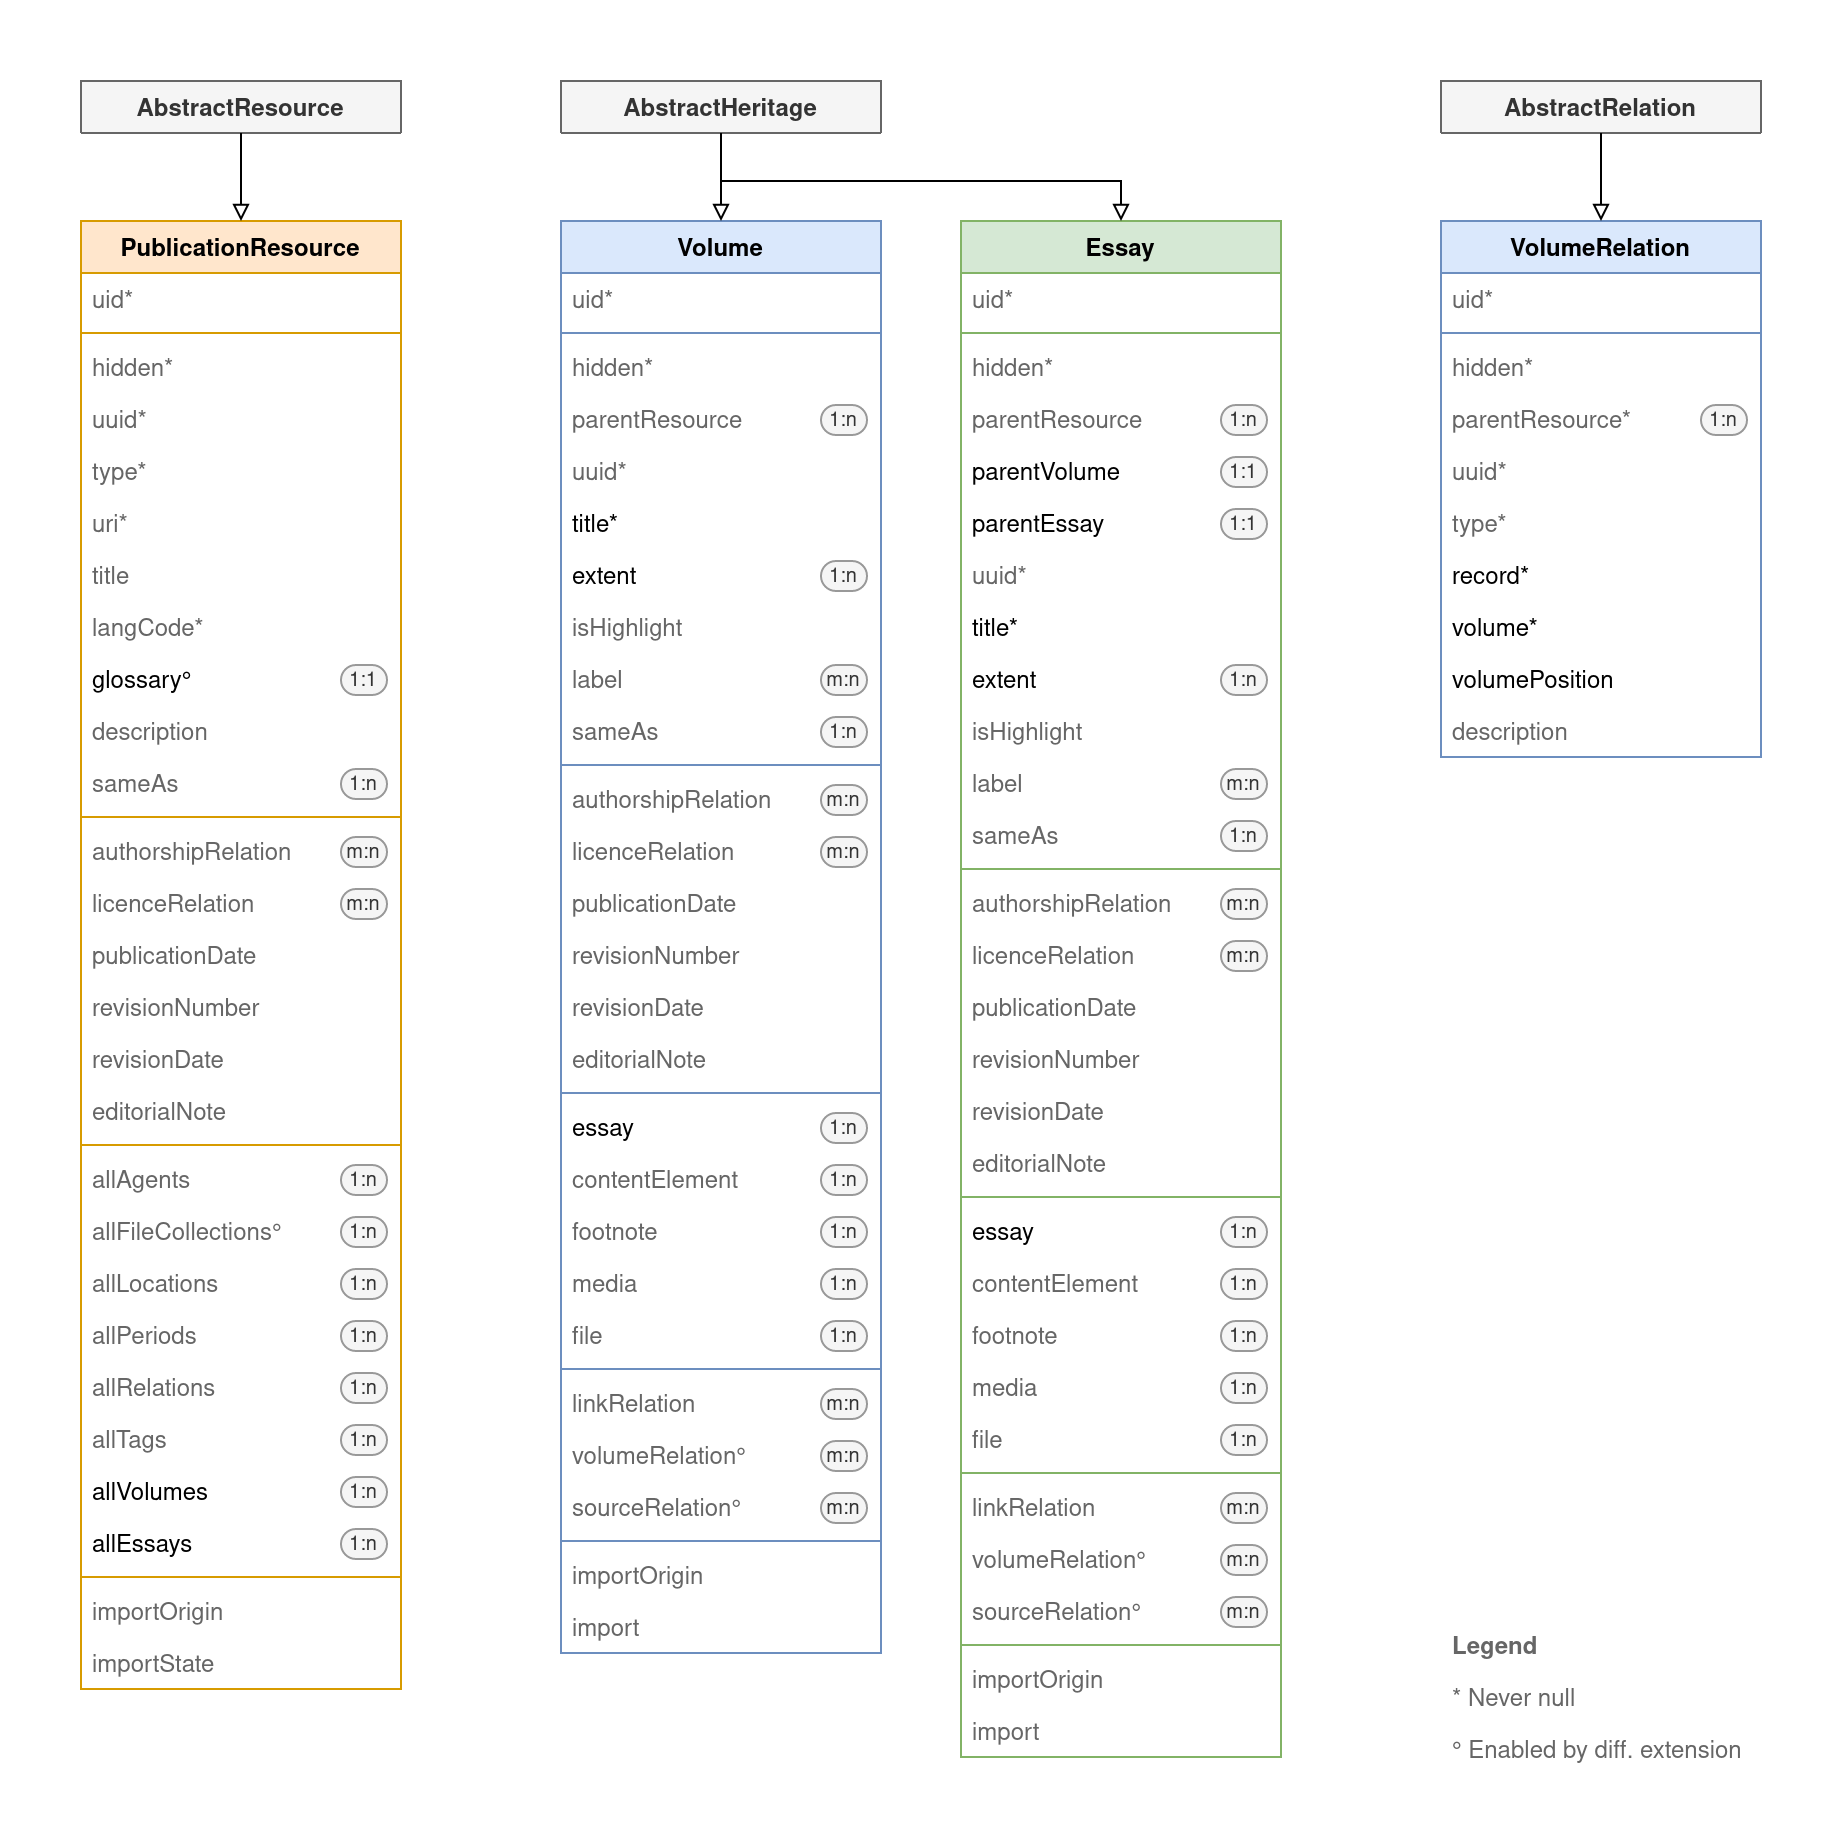
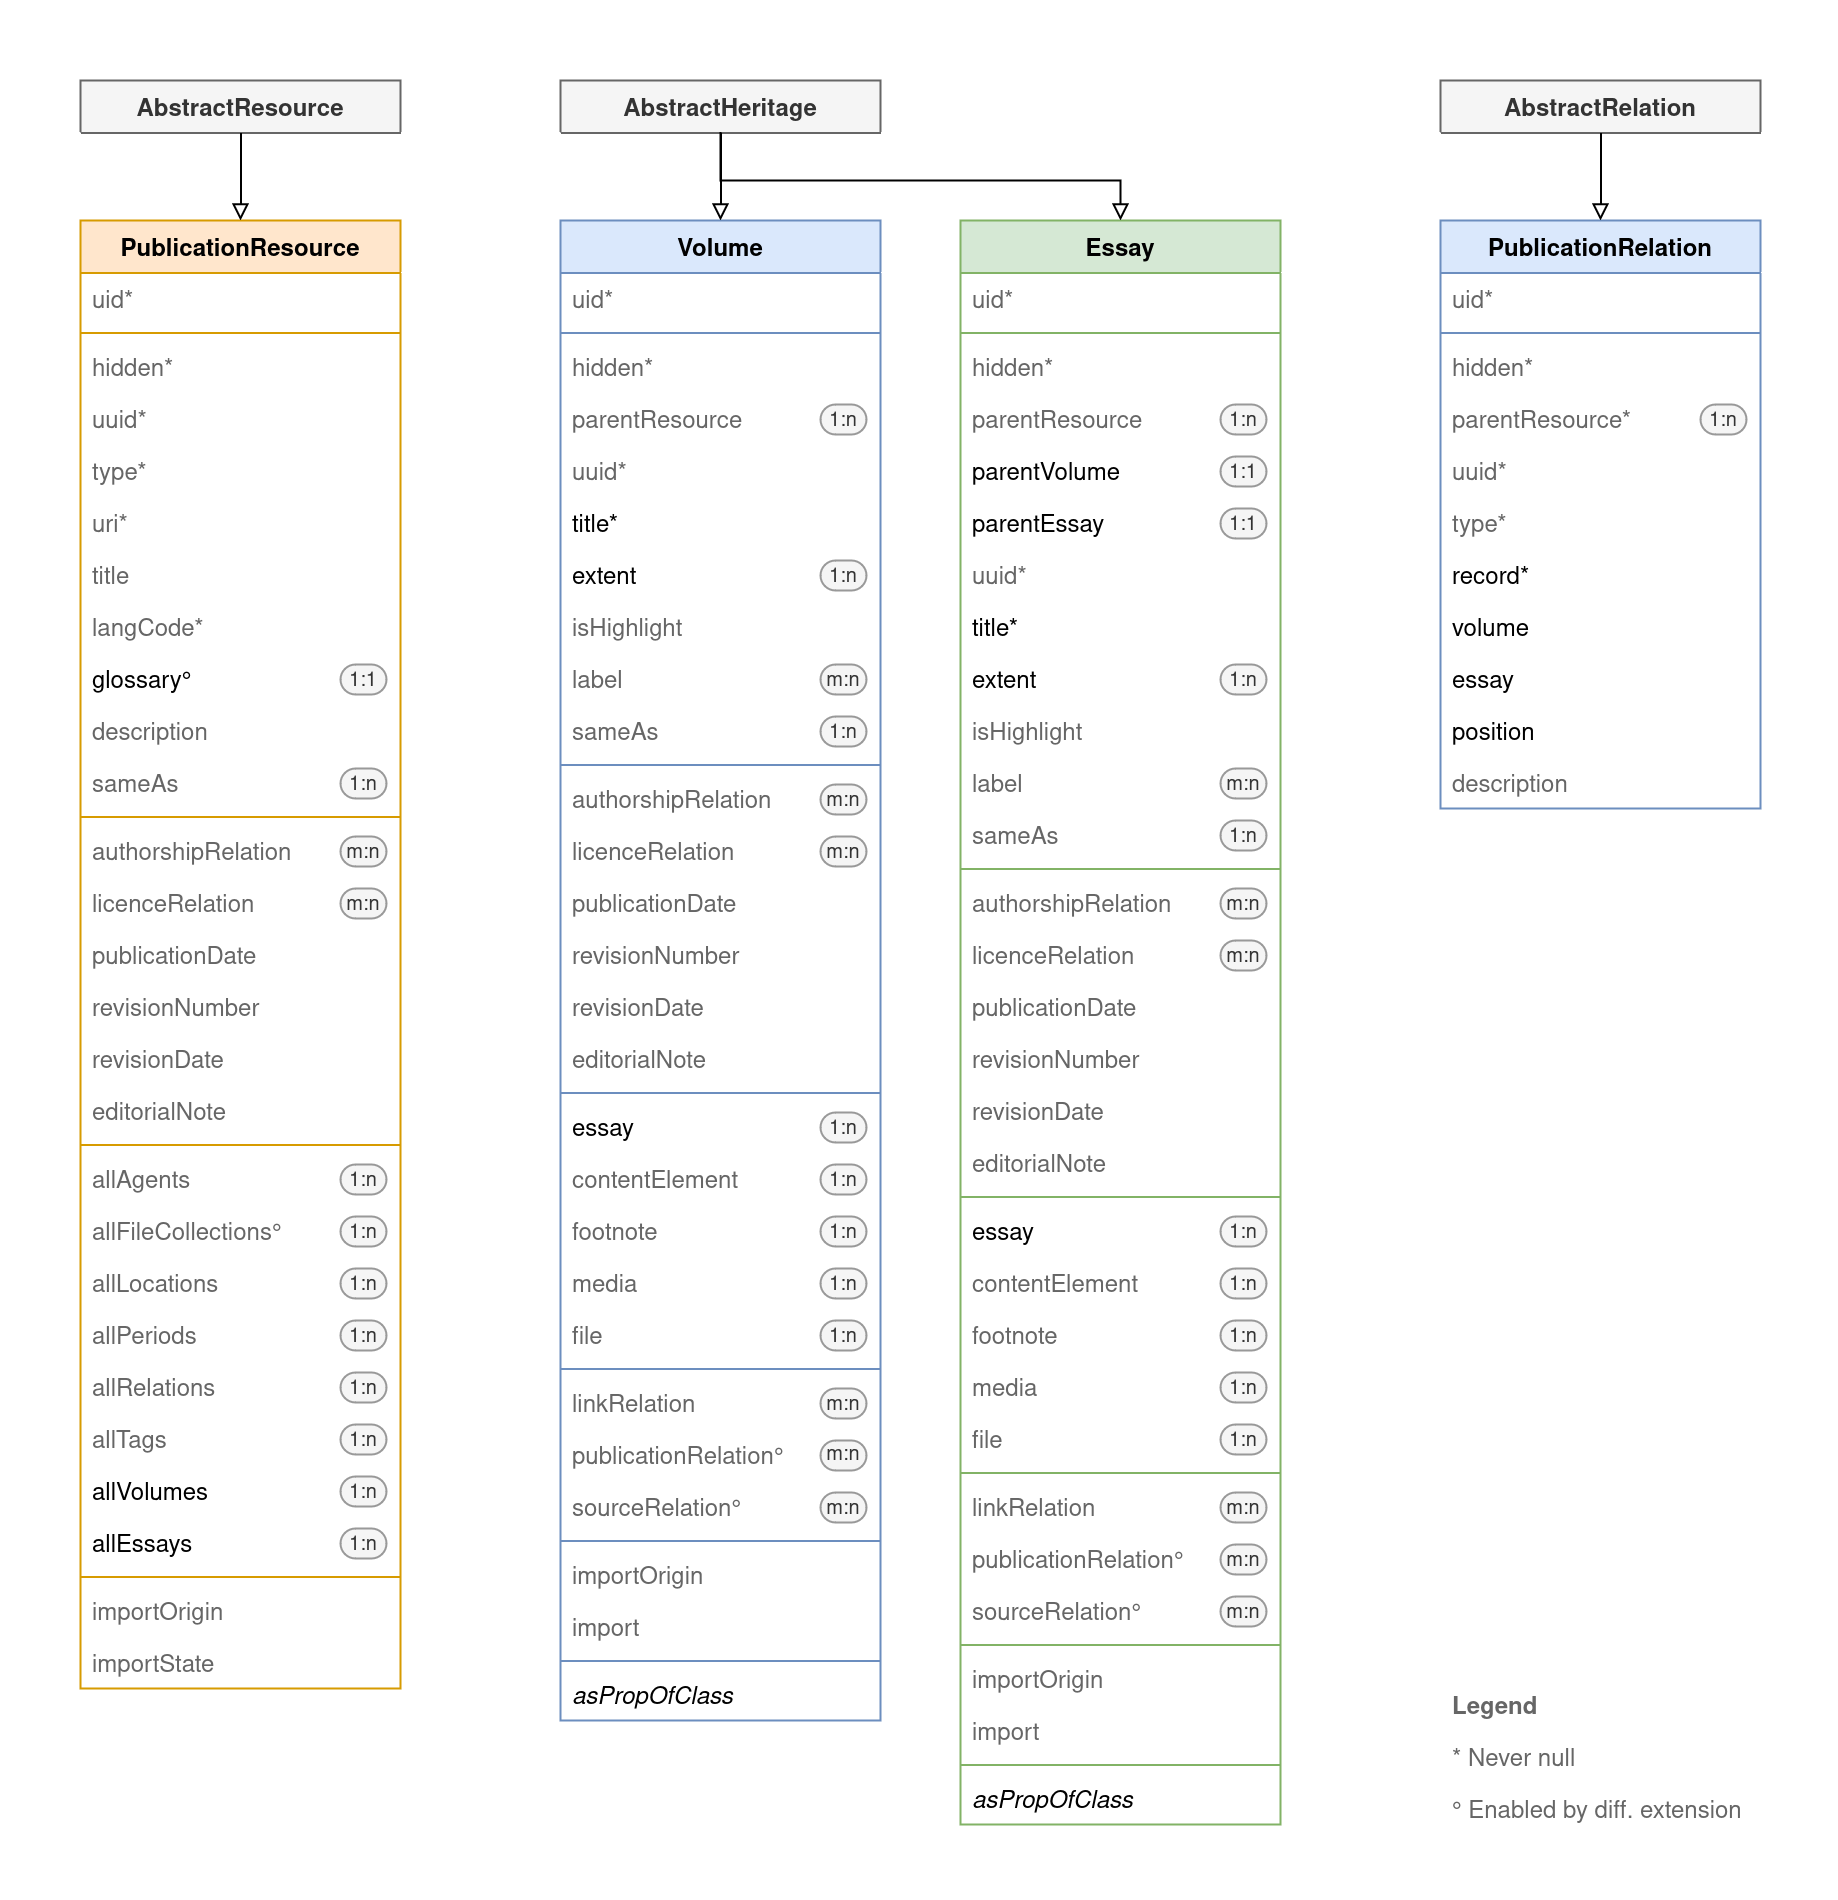
Change VolumeRelation to PublicationRelation

diff --git a/Configuration/TCA/Overrides/tx_chfbase_domain_model_relation.php b/Configuration/TCA/Overrides/tx_chfbase_domain_model_relation.php
@@ -10,7 +10,7 @@ declare(strict_types=1);
 defined('TYPO3') or die();
 
 /**
- * VolumeRelation and its properties
+ * PublicationRelation and its properties
  * 
  * Extension of a database table and its editing interface in the
  * TYPO3 backend. This also serves as the basis for the Extbase
@@ -24,30 +24,30 @@ defined('TYPO3') or die();
     'LLL:EXT:chf_base/Resources/Private/Language/locallang.xlf:object.generic.chfPub'
 );
 
-// Add select item 'volumeRelation'
+// Add select item 'publicationRelation'
 \TYPO3\CMS\Core\Utility\ExtensionManagementUtility::addTcaSelectItem('tx_chfbase_domain_model_relation', 'type',
     [
-        'label' => 'LLL:EXT:chf_pub/Resources/Private/Language/locallang.xlf:object.volumeRelation.type.volumeRelation',
-        'value' => 'volumeRelation',
+        'label' => 'LLL:EXT:chf_pub/Resources/Private/Language/locallang.xlf:object.publicationRelation.type.publicationRelation',
+        'value' => 'publicationRelation',
         'group' => 'chfPub',
     ]
 );
 
-// Add columns 'volume' and 'volumePosition'
+// Add columns 'volume', 'essay', and 'volumePosition'
 \TYPO3\CMS\Core\Utility\ExtensionManagementUtility::addTCAcolumns('tx_chfbase_domain_model_relation',
     [
         'volume' => [
             'exclude' => true,
             'l10n_mode' => 'exclude',
-            'label' => 'LLL:EXT:chf_pub/Resources/Private/Language/locallang.xlf:object.volumeRelation.volume',
-            'description' => 'LLL:EXT:chf_pub/Resources/Private/Language/locallang.xlf:object.volumeRelation.volume.description',
+            'label' => 'LLL:EXT:chf_pub/Resources/Private/Language/locallang.xlf:object.publicationRelation.volume',
+            'description' => 'LLL:EXT:chf_pub/Resources/Private/Language/locallang.xlf:object.publicationRelation.volume.description',
             'config' => [
                 'type' => 'select',
                 'renderType' => 'selectMultipleSideBySide',
                 'foreign_table' => 'tx_chfpub_domain_model_volume',
                 'foreign_table_where' => 'AND {#tx_chfpub_domain_model_volume}.{#pid}=###CURRENT_PID###',
                 'MM' => 'tx_chfpub_domain_model_relation_volume_volume_mm',
-                'MM_opposite_field' => 'asVolumeOfVolumeRelation',
+                'MM_opposite_field' => 'asVolumeOfPublicationRelation',
                 'size' => 5,
                 'autoSizeMax' => 10,
                 'fieldControl' => [
@@ -61,13 +61,39 @@ defined('TYPO3') or die();
                         'disabled' => false,
                     ],
                 ],
-                'required' => true,
             ],
         ],
-        'volumePosition' => [
+        'essay' => [
             'exclude' => true,
-            'label' => 'LLL:EXT:chf_pub/Resources/Private/Language/locallang.xlf:object.volumeRelation.volumePosition',
-            'description' => 'LLL:EXT:chf_pub/Resources/Private/Language/locallang.xlf:object.volumeRelation.volumePosition.description',
+            'l10n_mode' => 'exclude',
+            'label' => 'LLL:EXT:chf_pub/Resources/Private/Language/locallang.xlf:object.publicationRelation.essay',
+            'description' => 'LLL:EXT:chf_pub/Resources/Private/Language/locallang.xlf:object.publicationRelation.essay.description',
+            'config' => [
+                'type' => 'select',
+                'renderType' => 'selectMultipleSideBySide',
+                'foreign_table' => 'tx_chfpub_domain_model_essay',
+                'foreign_table_where' => 'AND {#tx_chfpub_domain_model_essay}.{#pid}=###CURRENT_PID###',
+                'MM' => 'tx_chfpub_domain_model_relation_essay_essay_mm',
+                'MM_opposite_field' => 'asEssayOfPublicationRelation',
+                'size' => 5,
+                'autoSizeMax' => 10,
+                'fieldControl' => [
+                    'editPopup' => [
+                        'disabled' => false,
+                    ],
+                    'addRecord' => [
+                        'disabled' => false,
+                    ],
+                    'listModule' => [
+                        'disabled' => false,
+                    ],
+                ],
+            ],
+        ],
+        'position' => [
+            'exclude' => true,
+            'label' => 'LLL:EXT:chf_pub/Resources/Private/Language/locallang.xlf:object.publicationRelation.position',
+            'description' => 'LLL:EXT:chf_pub/Resources/Private/Language/locallang.xlf:object.publicationRelation.position.description',
             'config' => [
                 'type' => 'input',
                 'size' => 40,
@@ -76,22 +102,21 @@ defined('TYPO3') or die();
                 'behaviour' => [
                     'allowLanguageSynchronization' => true,
                 ],
-                'required' => true,
             ],
         ],
     ]
 );
 
-// Create palette 'volumeVolumePosition'
+// Create palette 'volumeEssayPosition'
 \TYPO3\CMS\Core\Utility\ExtensionManagementUtility::addFieldsToPalette(
     'tx_chfbase_domain_model_relation',
-    'volumeVolumePosition',
-    'volume,volumePosition,'
+    'volumeEssayPosition',
+    'volume,essay,position,'
 );
 
-// Add type 'volumeRelation' and its 'showitem' list
+// Add type 'publicationRelation' and its 'showitem' list
 \TYPO3\CMS\Core\Utility\ExtensionManagementUtility::addToAllTCAtypes(
    'tx_chfbase_domain_model_relation',
-   'hiddenParentResource,uuidType,record,volumeVolumePosition,description,',
-   'volumeRelation'
+   'hiddenParentResource,uuidType,record,volumeEssayPosition,description,',
+   'publicationRelation'
 );

diff --git a/Configuration/Extbase/Persistence/Classes.php b/Configuration/Extbase/Persistence/Classes.php
@@ -27,7 +27,7 @@ return [
     ],
     Digicademy\CHFBase\Domain\Model\AbstractRelation::class => [
         'subclasses' => [
-            'volumeRelation' => Digicademy\CHFPub\Domain\Model\VolumeRelation::class,
+            'publicationRelation' => Digicademy\CHFPub\Domain\Model\PublicationRelation::class,
         ],
     ],
 ];

diff --git a/Documentation/DataModel/Index.rst b/Documentation/DataModel/Index.rst
@@ -12,7 +12,7 @@ All records of a traditional publication are held together by a single
 images and may represent either a book section, a book chapter, or a blog
 entry.
 
-Records from other data models may use a ``VolumeRelation`` to indicate a
+Records from other data models may use a ``PublicationRelation`` to indicate a
 specific page of a retrodigitised ``Volume``. ``Agent`` objects can be
 indicated as authors or in other roles via an ``AuthorshipRelation``.
 
